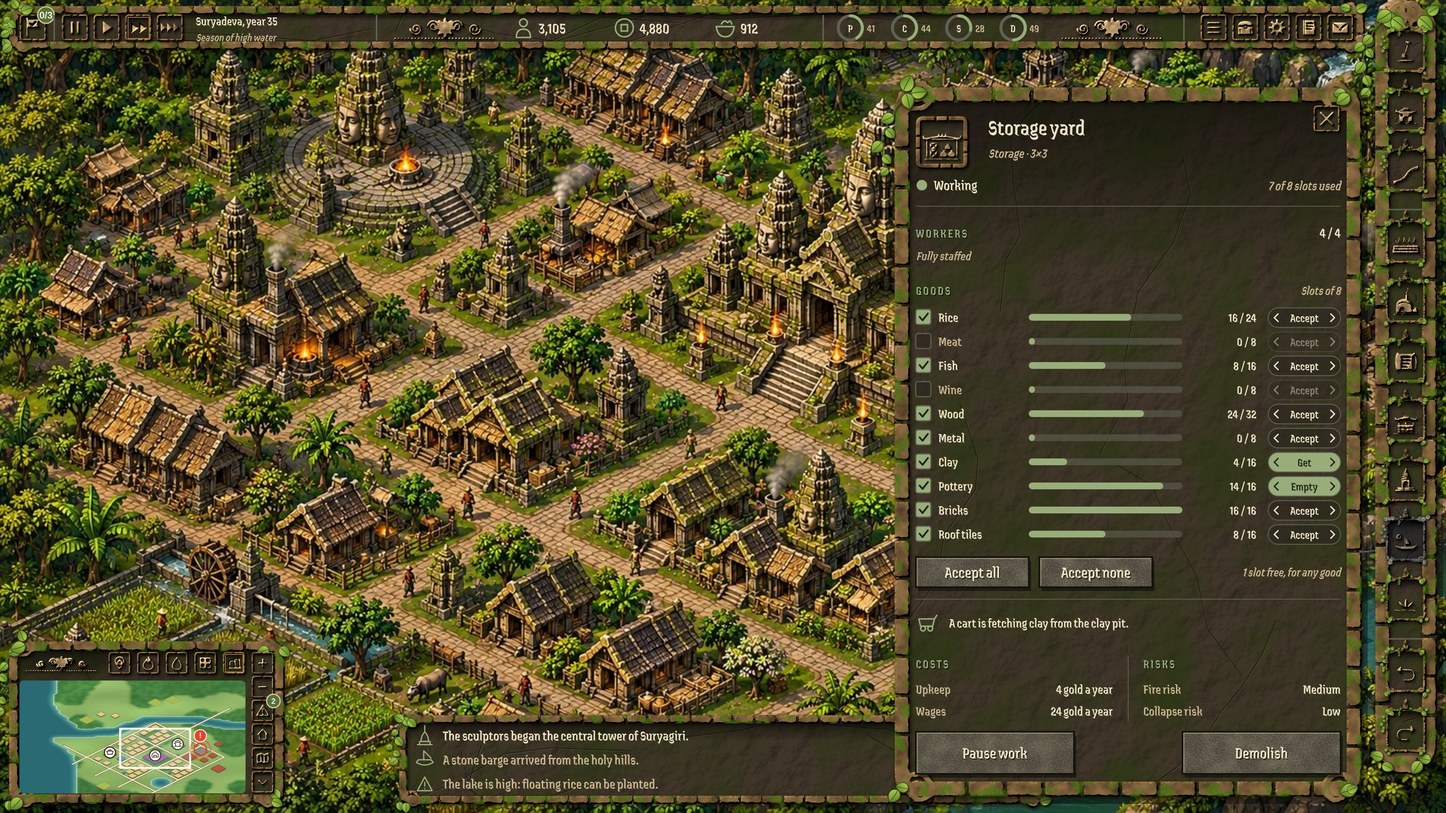
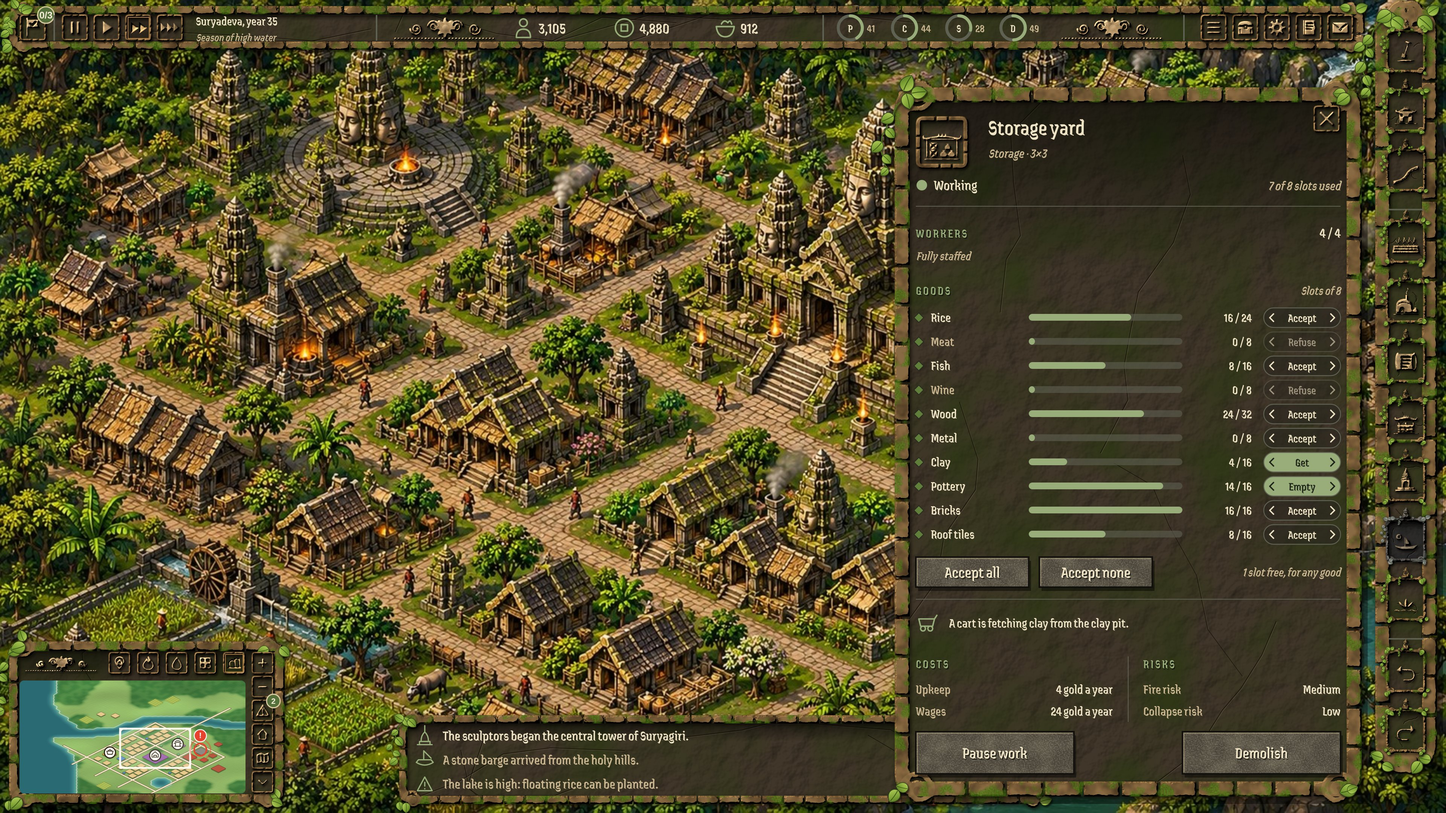
Inspector mockups: a store's order alone says whether it takes a good
The accepted checkbox is gone (the user's call): each good's order steps
through Refuse, Accept, Get and Empty, a refused good faded, and Accept
all / Accept none set every order.

Claude-Session: https://claude.ai/code/session_01E5PQdFiW8ubMzCiZxgcQDM

Changed region(s): [[0.8438, 0.3722, 0.9062, 0.6824], [0.625, 0.3722, 0.6875, 0.6824]]

diff --git a/docs/design/mockups/generator/dialogs.py b/docs/design/mockups/generator/dialogs.py
@@ -335,18 +335,12 @@ class Dialogs(Pages):
         return (f'<circle cx="{f(x)}" cy="{f(y)}" r="8.5" fill="none" stroke="{c}" stroke-width="2"/>'
                 f'<path d="M{f(x - 3.5)},{f(y - 3.5)} l7,7 m0,-7 l-7,7" stroke="{c}" stroke-width="2" stroke-linecap="round"/>')
 
-    def checkbox(self, x, y, on):
-        """A checkbox, its top-left corner at (x, y): ticked on the accent, or an empty box."""
-        out = f'<rect x="{f(x)}" y="{f(y)}" width="20" height="20" rx="3" fill="{self.accent if on else self.field_fill}" fill-opacity="{1 if on else 0.6}" stroke="{self.panel_rule}" stroke-width="1.5"/>'
-        if on:
-            out += f'<path d="M{f(x + 5)},{f(y + 10)} l4,4.5 l7,-9" fill="none" stroke="{self.on_icon}" stroke-width="2.4" stroke-linecap="round" stroke-linejoin="round"/>'
-        return out
-
-    def mode_pill(self, x, y, w, h, mode, enabled=True):
-        """A good's order in a store, Accept, Get or Empty, stepped with the arrows at its ends."""
-        on = mode != "accept"
-        label = {"accept": "Accept", "get": "Get", "empty": "Empty"}[mode]
-        op = 1 if enabled else 0.45
+    def mode_pill(self, x, y, w, h, mode):
+        """A good's order in a store, Refuse, Accept, Get or Empty, stepped with the arrows at its ends:
+        Get and Empty filled, Refuse faded."""
+        on = mode in ("get", "empty")
+        label = {"refuse": "Refuse", "accept": "Accept", "get": "Get", "empty": "Empty"}[mode]
+        op = 0.55 if mode == "refuse" else 1
         text = self.on_icon if on else self.panel_text
         return (f'<g opacity="{op}"><rect x="{f(x)}" y="{f(y)}" width="{f(w)}" height="{h}" rx="{h / 2}" fill="{self.accent if on else self.field_fill}" '
                 f'fill-opacity="{1 if on else 0.6}" stroke="{self.panel_rule}" stroke-width="1.2"/>'
@@ -494,13 +488,14 @@ class Dialogs(Pages):
                 body.append(self.section_title(x0, cy, title))
                 body.append(self.t(x1, cy, note, 17, self.panel_sub, "end", 600, italic=True))
                 mx, mw = x0 + 150, x1 - x0 - 360
-                for i, (good, n, cap, accepted, mode) in enumerate(rows):
+                for i, (good, n, cap, mode) in enumerate(rows):
                     ry = cy + 36 + i * 32
-                    body.append(self.checkbox(x0, ry - 17, accepted))
-                    body.append(self.t(x0 + 30, ry, good, 18, self.panel_text if accepted else self.panel_sub, "start", 700 if accepted else 600))
+                    taken = mode != "refuse"
+                    body.append(self.good_bullet(x0 + 4, ry - 6))
+                    body.append(self.t(x0 + 20, ry, good, 18, self.panel_text if taken else self.panel_sub, "start", 700 if taken else 600))
                     body.append(self.bar(mx, ry - 11, mw, 9, n / cap))
-                    body.append(self.t(x1 - 112, ry, f"{n} / {cap}", 17, self.panel_text, "end", 600))
-                    body.append(self.mode_pill(x1 - 96, ry - 19, 96, 26, mode, accepted or mode == "empty"))  # a refused good may still be emptied
+                    body.append(self.t(x1 - 118, ry, f"{n} / {cap}", 17, self.panel_text, "end", 600))
+                    body.append(self.mode_pill(x1 - 102, ry - 19, 102, 26, mode))
                 cy += 36 + len(rows) * 32
                 bw = 150
                 body.append(self.button(x0, cy - 8, bw, 40, "Accept all", False))

diff --git a/docs/design/mockups/generator/dialogs_content.py b/docs/design/mockups/generator/dialogs_content.py
@@ -151,8 +151,8 @@ TAMPADESA = dict(
 #   ("risks", rows)                          rows: (label, level 0-1); High (from 0.75) in red
 #   ("text", text)                           a short paragraph
 #   ("workers_line", have, need, note)       workers on one line, no figures (the stores')
-#   ("storage", title, note, rows, footer)   rows: (good, have, room, accepted, order): a checkbox, a meter
-#                                            and the order (accept, get or empty); Accept all and none under it
+#   ("storage", title, note, rows, footer)   rows: (good, have, room, order): a meter and the order (refuse,
+#                                            accept, get or empty); Accept all and none under it
 #   ("costs_risks", costs, risks)            costs and risks side by side, the risks' levels only
 # A panel's "width" is 500 unless given.
 # then its buttons: (label, primary). The status's tone is good, pending or bad.
@@ -192,9 +192,9 @@ INSPECTORS = {
         sections=[
             ("workers_line", 4, 4, "Fully staffed"),
             ("storage", "Goods", "Slots of 8", [
-                ("Rice", 16, 24, True, "accept"), ("Meat", 0, 8, False, "accept"), ("Fish", 8, 16, True, "accept"), ("Wine", 0, 8, False, "accept"),
-                ("Wood", 24, 32, True, "accept"), ("Metal", 0, 8, True, "accept"), ("Clay", 4, 16, True, "get"), ("Pottery", 14, 16, True, "empty"),
-                ("Bricks", 16, 16, True, "accept"), ("Roof tiles", 8, 16, True, "accept")], "1 slot free, for any good"),
+                ("Rice", 16, 24, "accept"), ("Meat", 0, 8, "refuse"), ("Fish", 8, 16, "accept"), ("Wine", 0, 8, "refuse"),
+                ("Wood", 24, 32, "accept"), ("Metal", 0, 8, "accept"), ("Clay", 4, 16, "get"), ("Pottery", 14, 16, "empty"),
+                ("Bricks", 16, 16, "accept"), ("Roof tiles", 8, 16, "accept")], "1 slot free, for any good"),
             ("errand", "cart", "A cart is fetching clay from the clay pit."),
             ("costs_risks", [("Upkeep", "4 gold a year"), ("Wages", "24 gold a year")], [("Fire risk", 0.48), ("Collapse risk", 0.12)]),
         ],
@@ -205,7 +205,7 @@ INSPECTORS = {
         status=("Working", "good", "6 of 8 slots used"),
         sections=[
             ("workers_line", 3, 4, "1 short · Food is priority 1"),
-            ("storage", "Food", "Slots of 8", [("Rice", 32, 40, True, "accept"), ("Meat", 0, 8, False, "empty"), ("Fish", 12, 24, True, "get")],
+            ("storage", "Food", "Slots of 8", [("Rice", 32, 40, "accept"), ("Meat", 0, 8, "refuse"), ("Fish", 12, 24, "get")],
              "2 slots free"),
             ("errand", "cart", "A cart is taking 8 rice to the market."),
             ("values", "Costs", None, [("Upkeep", "4 gold a year"), ("Wages", "3 workers · 18 gold a year")]),

diff --git a/docs/plans/realm-ui.md b/docs/plans/realm-ui.md
@@ -847,11 +847,11 @@ Steps, each implemented, reviewed, fixed, committed and pushed in order, then th
 
 - [x] **P8a Mockups for the other panels**, in all three realms: house, storage yard, granary, service (the fire watch; the hospital alike, with sick houses), market, construction site, walker (a cart), and terrain and props (a tree). The workshop's mockup also stands for farms and other producers.
   - Done (2026-11-14): `inspector-<kind>-<realm>.jpg` (`house`, `storage`, `service`, `market`, `site`, `unit`, `terrain`) beside the workshop's `inspector-<realm>.jpg`, redrawn with Risks in place of Built. The generator's `Dialogs.inspector(kind)` draws every panel from `INSPECTORS` in `dialogs_content.py`: a header, a status line (its dot good, pending or bad), then sections (`workers`, `residents`, `production`, `stock`, `ticks`, `values`, `progress`, `errand`, `risks`, `text`) and the buttons, the panel as tall as its sections (the tallest, the house, ends 65 points above the screen's foot). A house shows its residents, the services its level needs ticked and the next level's missing one, its goods, its tax in the status line and three risks, and only Demolish. A site shows its progress, what it took (given back if cancelled) and what it will cost once built, and Cancel and refund. A walker shows its errand and Show its home; terrain and props a description, the cost of clearing them and Clear. High risks, shortages and missing needs are in the realm's red (`risk_col`: Kambara's and Tampadesa's accents are green and gold), on the right-hand figure or level only, their labels in the panel's text.
-  - The user's review (2026-11-14): only the right-hand part of a high risk or a missing good is red; the fire watch has no "Fires answered" line; a walker's distance is in metres, roughly ("About 100 metres"), not cells; terrain and props show no cell. The stores (`inspector-storage-<realm>.jpg`, wider at 620 points, and `inspector-granary-<realm>.jpg`) list every good they take, each with a checkbox for whether it's accepted, its meter, its count and its order (Accept, Get or Empty, stepped with arrows, in the Accept all and Accept none buttons' words; Empty stays lit on a refused good, which may still be emptied), then Accept all and Accept none under the list, as in the classic Impressions games; the yard's workers take one line, and its costs and risks sit side by side so it fits.
+  - The user's review (2026-11-14): only the right-hand part of a high risk or a missing good is red; the fire watch has no "Fires answered" line; a walker's distance is in metres, roughly ("About 100 metres"), not cells; terrain and props show no cell. The stores (`inspector-storage-<realm>.jpg`, wider at 620 points, and `inspector-granary-<realm>.jpg`) list every good they take, each with its meter, its count and its order (Refuse, Accept, Get or Empty, stepped with arrows; the user dropped a separate accepted checkbox as redundant), then Accept all and Accept none under the list, which set every good's order to Accept or Refuse, as in the classic Impressions games; the yard's workers take one line, and its costs and risks sit side by side so it fits.
 - [ ] **P8b The figures:** a walker's distance as players read it, in rough metres from its cells ("About 100 metres", "About 1 km"), and a report per building, read when the panel is built and while it's open (as `city::CityReport` is for the City book): status, workers, inputs and outputs with their stock and capacity, the batch and its progress, the walker's errand, coverage, the house's needs, upkeep and wages, risks (the risk line it shows today). An automation query (`inspector.state`, or `world.building_at` grown) reports it, so scenarios check the numbers.
 - [ ] **P8c The panel framework:** one inspector menu built from sections (header, status, workers, meters, an errand line, key values, actions) in the skin's colours. A panel per kind, each listing its sections, so a later milestone adds its own (M8's temples, M10's trade posts, game Phase 2's monuments). Painted parts are read each frame, as the goals panel's are. The panel is at the mockup's place, not centred. The paths `BuildingInspector/Close` stay, with sections under the panel's label (`BuildingInspector/Workers`, `BuildingInspector/Production`, ...).
 - [ ] **P8d The panels:** workshop and farm, house, storage, service, market, construction site; the unit, prop and terrain inspectors in the same frame.
-- [ ] **P8e Actions:** Demolish asks in a popup first, then clears the building through the player's own path (`TilePlacement::clear`, no refund), and a site's Cancel and refund refunds what it took, as clearing a site does today. Clear on terrain and props charges as the clear tool does; Show its home moves the camera to a walker's building. A store's checkboxes, Accept all and Accept none work (the user's call on 2026-11-14): a set of refused goods saved on each storage yard and granary (a save-version bump with its migration script), which `receivable_resources` honours, so deliveries and the city stock's refunds go elsewhere (goods already held stay until taken), with an automation command to set it. Pause work and the stores' Get and Empty orders are controls only: disabled, with a tooltip, until roadmap M11 hooks them up, so they add no saved state here.
+- [ ] **P8e Actions:** Demolish asks in a popup first, then clears the building through the player's own path (`TilePlacement::clear`, no refund), and a site's Cancel and refund refunds what it took, as clearing a site does today. Clear on terrain and props charges as the clear tool does; Show its home moves the camera to a walker's building. A store's Refuse and Accept orders, Accept all and Accept none work (the user's call on 2026-11-14): a set of refused goods saved on each storage yard and granary (a save-version bump with its migration script), which `receivable_resources` honours, so deliveries and the city stock's refunds go elsewhere (goods already held stay until taken), with an automation command to set it. Pause work and the stores' Get and Empty orders are controls only (the order steps over them, or they show disabled): disabled, with a tooltip, until roadmap M11 hooks them up, so they add no saved state here.
 - [ ] **P8f Wrap-up:** a scenario (`ui_inspector.jsonl`: each panel in each realm, its figures against `world.building_at` and `city.state`, Demolish and its popup, Pause work); `ui_snapshot.jsonl`'s inspectors; the docs (AGENTS.md's HUD notes) and known issues; final screenshots beside the mockups.
 
 ## Dependencies on other milestones

diff --git a/docs/design/mockups/README.md b/docs/design/mockups/README.md
@@ -44,7 +44,7 @@ The HUD of gdd.md 10 over a city, as agreed with the user on 2026-11-14 (the des
 | Kambara | [hud-kambara.jpg](hud-kambara.jpg) | [build-palette-kambara.jpg](build-palette-kambara.jpg) |
 | Tampadesa | [hud-tampadesa.jpg](hud-tampadesa.jpg) | [build-palette-tampadesa.jpg](build-palette-tampadesa.jpg) |
 
-Every dialog takes the HUD's frames and colours (the user's call on 2026-11-14, `generator/frames.py`): the main menus, the campaign picker, the Game menu and its popups, the briefing, the debrief's and campaign-complete screen's panels, the event popup, the inspector and the City book. Đại Long keeps its parchment and dark ink inside carved red wood; Kambara's dialogs are dark cracked stone in carved sandstone with light text and moss-green accents; Tampadesa's dark mudbrick in weathered brick with light text and gold. The dialogs over the city show the new HUD behind them, and the inspector stands left of the build column, its building's icon an icon tile. The inspector has a panel per kind of thing clicked (realm-ui Phase 8, drawn 2026-11-14): a workshop, a house, a storage yard and a granary, a service (the fire watch), a market, a construction site, a walker and terrain or a prop. Each is a header, a status line and sections (workers or residents, production, stock meters, services ticked, values, an errand line, risks), with the panel's buttons at its foot (`INSPECTORS` in `dialogs_content.py`, drawn by `Dialogs.inspector`). A risk is Low, Medium or High (from 75), High in the realm's red (`risk_col`), as are a missing good's count and a missing need's cross; only that right-hand part is red. A store lists every good it takes with a checkbox (accepted or not), its meter and count, and its order (Accept, Get or Empty), with Accept all and Accept none under the list. The world map and the comic viewer keep their own frames.
+Every dialog takes the HUD's frames and colours (the user's call on 2026-11-14, `generator/frames.py`): the main menus, the campaign picker, the Game menu and its popups, the briefing, the debrief's and campaign-complete screen's panels, the event popup, the inspector and the City book. Đại Long keeps its parchment and dark ink inside carved red wood; Kambara's dialogs are dark cracked stone in carved sandstone with light text and moss-green accents; Tampadesa's dark mudbrick in weathered brick with light text and gold. The dialogs over the city show the new HUD behind them, and the inspector stands left of the build column, its building's icon an icon tile. The inspector has a panel per kind of thing clicked (realm-ui Phase 8, drawn 2026-11-14): a workshop, a house, a storage yard and a granary, a service (the fire watch), a market, a construction site, a walker and terrain or a prop. Each is a header, a status line and sections (workers or residents, production, stock meters, services ticked, values, an errand line, risks), with the panel's buttons at its foot (`INSPECTORS` in `dialogs_content.py`, drawn by `Dialogs.inspector`). A risk is Low, Medium or High (from 75), High in the realm's red (`risk_col`), as are a missing good's count and a missing need's cross; only that right-hand part is red. A store lists every good it takes with its meter, its count and its order (Refuse, Accept, Get or Empty), with Accept all and Accept none under the list. The world map and the comic viewer keep their own frames.
 
 The city behind the HUD is each realm's painted city in `../../images/references/` (`Ancient Vietnamese Riverside Temple Town.jpg`, `Angkor Temple City in the Jungle.jpg`, `Golden Temple City by the River.jpg`), scaled to 1920 × 1080.
 
